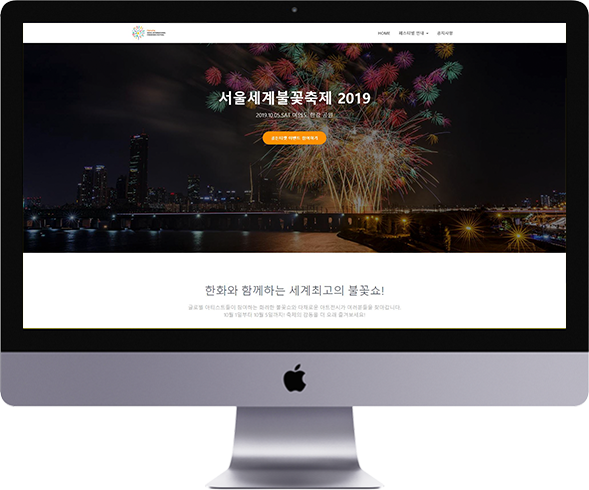
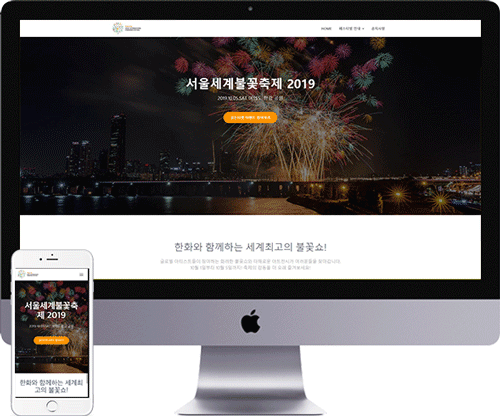
20191024

diff --git a/client_safe09.html b/client_safe09.html
@@ -94,9 +94,8 @@
 						</div>
 					</div>
 					<div class="intro-line d-flex justify-content-between align-items-center">
-						<!-- <p>서울세계불꽃축제의 홈페이지를 워드프레스 테마에 적용하여 리디자인했습니다.<br>
-						불꽃축제의 다채로움을 표현하기 위해 분홍, 보라, 초록, 파랑색 등 다양한 색상을 사용했고,
-						기존 테마의 레이아웃 수정을 위해 크롬 개발자 모드와 워드프레스 테마 편집기를 활용했습니다.</p> -->
+						<p>세이프공구의 공구몰과 안전용품몰 두 가지 카페24 쇼핑몰을 제작했습니다.
+						</p>
 					</div>
 					<a href="http://www.safe09.co.kr"target="_blank" class="primary-btn d-inline-flex align-items-center mt-35">사이트 바로가기<span class="lnr lnr-arrow-right"></span></a>
 				</div>
@@ -104,8 +103,8 @@
 			<section class="section-full gray-bg">
 				<div class="container">
 					<div class="row justify-content-center align-items-center">
-						<div class="col-lg-10">
-							<img src="img/publishing/seoul_monitor.png" class="transition basic img-fluid mx-auto d-block mb-20" alt="">
+						<div class="col-lg-12">
+							<img src="img/client/safe09_page01.jpg" class="transition basic img-fluid mx-auto d-block mb-20" alt="">
 						</div>
 						
 					</div>	
@@ -116,61 +115,27 @@
 					<div class="row justify-content-center">
 						<div class="col-lg-12">
 							<div>
-								<h3 class="mb-20">반응형 홈페이지</h3>
-								<p>워드프레스 테마 홈페이지이며, bootstrap을 활용하여 레이아웃을 수정했습니다.
+								<h3 class="mb-20">상품 상세페이지</h3>
+								<p>상품의 썸네일 이미지와, 상세페이지를 제작하고 카페24 쇼핑몰에 상품등록을 했습니다.
 								</p>
 							</div>
 						</div>
 					</div>
 				</div>
 			</section>
-			<section class="section-top gray-bg">
+			<section class="section-style gray-bg">
 				<div class="container">
-					<div class="row">
-						<div class="col-lg-12">
-							<img src="img/publishing/seoul_page01.jpg" class="transition basic img-fluid mx-auto d-block mb-150" alt="">
+					<div class="row mb-150">
+						<h3 class="text-left">BRAND DESIGN</h3>
+					</div>
+					<div class="row justify-content-center mb-200">
+						<div class="col-lg-8">
+							<img src="img/client/safe09_brand01.png" class="transition basic img-fluid mx-auto d-block" alt="">
 						</div>
 					</div>
 					<div class="row">
-						<div class="col-lg-12">
-							<img src="img/publishing/seoul_page02.png" class="transition basic img-fluid mx-auto d-block" alt="">
-						</div>
-					</div>
-				</div>
-			</section>
-			<section class="section-sub">
-				<div class="container">
-					<div class="row justify-content-center">
-						<div class="col-lg-12">
-							<div>
-								<h3 class="mb-20">CMS 프로그램 사용</h3>
-								<p>
-									워드프레스의 게시판 작성 솔루션을 사용해 글을 작성하고,
-									테마편집기로 CSS 스타일 시트를 수정했습니다.
-								</p>
-							</div>
-						</div>
-					</div>
-				</div>
-			</section>
-			<section class="section-full seoul_bg">
-					<div class="row">
-						<div class="col-lg-12">
-							<img src="img/publishing/seoul_page03.png" class="transition basic img-fluid mx-auto d-block" alt="">
-					</div>
-				</div>
-			</section>
-			<section class="section-style">
-				<div class="container">
-					<div class="row justify-content-center">
-						<div class="col-lg-12">
-							<div>
-								<h3 class="mb-120">STYLE GUIDE</h3>	
-							</div>
-						</div>
-						<div class="col-lg-12">
-							<img src="img/publishing/seoul_style.png" class="transition basic img-fluid mx-auto d-block mb-20" alt="">
-						</div>
+						<img src="img/client/safe09_brand02.jpg" class="transition basic img-fluid mx-auto d-block mb-20" alt="">
+						<img src="img/client/safe09_brand.jpg" class="transition basic img-fluid mx-auto d-block" alt="">
 					</div>
 				</div>
 			</section>
@@ -186,7 +151,6 @@
 					</div>
 				</div>
 			</section>
-		
 
 		<!-- End Cta Area -->
 		<footer class="section-full">

diff --git a/index.html b/index.html
@@ -234,40 +234,6 @@
 				</div>
 				<div class="row mb-70">
 					<div class="single-publishing col-lg-6 mt-30">
-						<img src="img/publishing_black.png" class="transition basic img-fluid mx-auto d-block mb-20" width="90%" alt="img">
-					</div>
-					<div class="col-lg-6 mt-30">
-						
-						<h3>블랙소르베</h3>
-						<div class="line"></div>
-						
-						<h6 class="mb-10">WORK</h6>
-						<p>jQuery fullpage 플러그인을 적용한 풀페이지 화면<br>
-						CSS Animation, transition을 활용한 애니메이션 효과<br>
-						<!-- 그누보드 게시판 적용<br> -->
-						모듈 팝업창 구현</p>
-						<div class="row">
-							<div class="col-sm-6">
-								<div class="address mt-20">
-									<h6 class="text-uppercase mb-10">PARTICIPATION</h6>
-									<p>퍼블리싱 100%, 디자인 100%</p>
-								</div>
-							</div>
-							<div class="col-sm-6">
-								<div class="address mt-20">
-									<h6 class="text-uppercase mb-10">TYPE</h6>
-									<p>PC</p>
-								</div>
-							</div>
-							<div class="col-sm-9">
-								<a href="https://kya754.github.io/2019_webdesign/05.BR/"target="_blank" class="homepage-btn d-inline-flex align-items-center">홈페이지<span class="fa fa-home"></span></a>
-								<a href="publishing_black.html" class="primary-btn d-inline-flex align-items-center mt-35">자세히 보기<span class="lnr lnr-arrow-right"></span></a>
-							</div>
-						</div>
-					</div>
-				</div>
-				<div class="row mb-70">
-					<div class="single-publishing col-lg-6 mt-30">
 						<img src="img/publishing_cmt.png" class="transition basic img-fluid mx-auto d-block mb-20" width="90%" alt="img">
 					</div>
 					<div class="col-lg-6 mt-30">
@@ -298,6 +264,40 @@
 							<div class="col-sm-9">
 								<a href="https://kya754.github.io/2019_webdesign/04.cmt/"target="_blank" class="homepage-btn d-inline-flex align-items-center">홈페이지<span class="fa fa-home"></span></a>
 								<a href="publishing_cmt.html" class="primary-btn d-inline-flex align-items-center mt-35">자세히 보기<span class="lnr lnr-arrow-right"></span></a>
+							</div>
+						</div>
+					</div>
+				</div>
+				<div class="row mb-70">
+					<div class="single-publishing col-lg-6 mt-30">
+						<img src="img/publishing_black.png" class="transition basic img-fluid mx-auto d-block mb-20" width="90%" alt="img">
+					</div>
+					<div class="col-lg-6 mt-30">
+						
+						<h3>블랙소르베</h3>
+						<div class="line"></div>
+						
+						<h6 class="mb-10">WORK</h6>
+						<p>jQuery fullpage 플러그인을 적용한 풀페이지 화면<br>
+						CSS Animation, transition을 활용한 애니메이션 효과<br>
+						<!-- 그누보드 게시판 적용<br> -->
+						모듈 팝업창 구현</p>
+						<div class="row">
+							<div class="col-sm-6">
+								<div class="address mt-20">
+									<h6 class="text-uppercase mb-10">PARTICIPATION</h6>
+									<p>퍼블리싱 100%, 디자인 100%</p>
+								</div>
+							</div>
+							<div class="col-sm-6">
+								<div class="address mt-20">
+									<h6 class="text-uppercase mb-10">TYPE</h6>
+									<p>PC</p>
+								</div>
+							</div>
+							<div class="col-sm-9">
+								<a href="https://kya754.github.io/2019_webdesign/05.BR/"target="_blank" class="homepage-btn d-inline-flex align-items-center">홈페이지<span class="fa fa-home"></span></a>
+								<a href="publishing_black.html" class="primary-btn d-inline-flex align-items-center mt-35">자세히 보기<span class="lnr lnr-arrow-right"></span></a>
 							</div>
 						</div>
 					</div>

diff --git a/client_samwoo.html b/client_samwoo.html
@@ -104,7 +104,7 @@
 				<div class="container">
 					<div class="row justify-content-center align-items-center">
 						<div class="col-lg-10">
-							<img src="img/publishing/seoul_monitor.png" class="transition basic img-fluid mx-auto d-block mb-20" alt="">
+							<img src="img/client/samwoo_monitor.png" class="transition basic img-fluid mx-auto d-block mb-20" alt="">
 						</div>
 						
 					</div>	
@@ -115,8 +115,8 @@
 					<div class="row justify-content-center">
 						<div class="col-lg-12">
 							<div>
-								<h3 class="mb-20">반응형 홈페이지</h3>
-								<p>워드프레스 테마 홈페이지이며, bootstrap을 활용하여 레이아웃을 수정했습니다.
+								<h3 class="mb-20">다양한 게시판</h3>
+								<p>카페24 빌더 홈페이지의 게시판 기능을 사용하여 공사실적, 갤러리, 인증서 게시판 등 각 용도에 맞는 컨텐츠를 구성했습니다.
 								</p>
 							</div>
 						</div>
@@ -127,52 +127,29 @@
 				<div class="container">
 					<div class="row">
 						<div class="col-lg-12">
-							<img src="img/publishing/seoul_page01.jpg" class="transition basic img-fluid mx-auto d-block mb-150" alt="">
+							<img src="img/client/samwoo_page01.jpg" class="transition basic img-fluid mx-auto d-block mb-150" alt="">
 						</div>
-					</div>
-					<div class="row">
-						<div class="col-lg-12">
-							<img src="img/publishing/seoul_page02.png" class="transition basic img-fluid mx-auto d-block" alt="">
-						</div>
-					</div>
-				</div>
-			</section>
-			<section class="section-sub">
-				<div class="container">
-					<div class="row justify-content-center">
-						<div class="col-lg-12">
-							<div>
-								<h3 class="mb-20">CMS 프로그램 사용</h3>
-								<p>
-									워드프레스의 게시판 작성 솔루션을 사용해 글을 작성하고,
-									테마편집기로 CSS 스타일 시트를 수정했습니다.
-								</p>
-							</div>
-						</div>
-					</div>
-				</div>
-			</section>
-			<section class="section-full seoul_bg">
-					<div class="row">
-						<div class="col-lg-12">
-							<img src="img/publishing/seoul_page03.png" class="transition basic img-fluid mx-auto d-block" alt="">
 					</div>
 				</div>
 			</section>
 			<section class="section-style">
 				<div class="container">
 					<div class="row justify-content-center">
-						<div class="col-lg-12">
+						<div class="col-lg-12 mb-150">
 							<div>
-								<h3 class="mb-120">STYLE GUIDE</h3>	
+								<h3 class="mb-20">CI DESIGN</h3>
+								<p>(주)삼우건설산업의 새로운 로고를 디자인했습니다.<br>
+								회사소개서와 안전모, 명함 등 다양한 곳에 활용되어 회사의 아이덴티티 디자인을 정돈했습니다.</p>
 							</div>
 						</div>
-						<div class="col-lg-12">
-							<img src="img/publishing/seoul_style.png" class="transition basic img-fluid mx-auto d-block mb-20" alt="">
-						</div>
+					</div>
+					<div class="row">
+						<img src="img/client/samwoo_brand01.jpg" class="transition basic img-fluid mx-auto d-block mb-20" alt="">
+						<img src="img/client/samwoo_brand02.jpg" class="transition basic img-fluid mx-auto d-block" alt="">
 					</div>
 				</div>
 			</section>
+			
 			
 			<!-- Start Cta Area -->
 			<section id="CONTACT" class="cta-area">

diff --git a/client_roomnara24.html b/client_roomnara24.html
@@ -133,38 +133,19 @@
 					</div>
 				</div>
 			</section>
-			<section class="section-sub">
-				<div class="container">
-					<div class="row justify-content-center">
-						<div class="col-lg-12">
-							<div>
-								<h3 class="mb-20">CMS 프로그램 사용</h3>
-								<p>
-									워드프레스의 게시판 작성 솔루션을 사용해 글을 작성하고,
-									테마편집기로 CSS 스타일 시트를 수정했습니다.
-								</p>
-							</div>
-						</div>
-					</div>
-				</div>
-			</section>
-			<section class="section-full seoul_bg">
-					<div class="row">
-						<div class="col-lg-12">
-							<img src="img/publishing/seoul_page03.png" class="transition basic img-fluid mx-auto d-block" alt="">
-					</div>
-				</div>
-			</section>
 			<section class="section-style">
 				<div class="container">
 					<div class="row justify-content-center">
-						<div class="col-lg-12">
+						<div class="col-lg-12 mb-150">
 							<div>
-								<h3 class="mb-120">STYLE GUIDE</h3>	
+								<h3>BRAND DESIGN</h3>	
 							</div>
 						</div>
+						<div class="col-lg-6 mb-150">
+							<img src="img/client/roomnara24_brand01.png" class="transition basic img-fluid mx-auto d-block" alt="">
+						</div>
 						<div class="col-lg-12">
-							<img src="img/publishing/seoul_style.png" class="transition basic img-fluid mx-auto d-block mb-20" alt="">
+							<img src="img/client/roomnara24_brand02.png" class="transition basic img-fluid mx-auto d-block mb-20" alt="">
 						</div>
 					</div>
 				</div>

diff --git a/publishing_udon.html b/publishing_udon.html
@@ -131,6 +131,7 @@
 				</div>
 			</section>
 			<section class="gray-bg udonwrap">
+				<div class="container-fluid">
 					<div class="row">
 						<div class="col-lg-4 text-right udontext">
 							<div>
@@ -163,6 +164,7 @@
 							<img src="img/publishing/udon_page01.png" class="transition basic img-fluid ml-auto d-block" width="120%" alt="">
 						</div>
 					</div>
+				</div>
 			</section>
 			<section class="section-style">
 				<div class="container">

diff --git a/publishing_seoul.html b/publishing_seoul.html
@@ -159,9 +159,11 @@
 				</div>
 			</section>
 			<section class="section-full seoul_bg">
+				<div class="container-fluid">
 					<div class="row">
 						<div class="col-lg-12">
 							<img src="img/publishing/seoul_page03.png" class="transition basic img-fluid mx-auto d-block" alt="">
+						</div>
 					</div>
 				</div>
 			</section>
